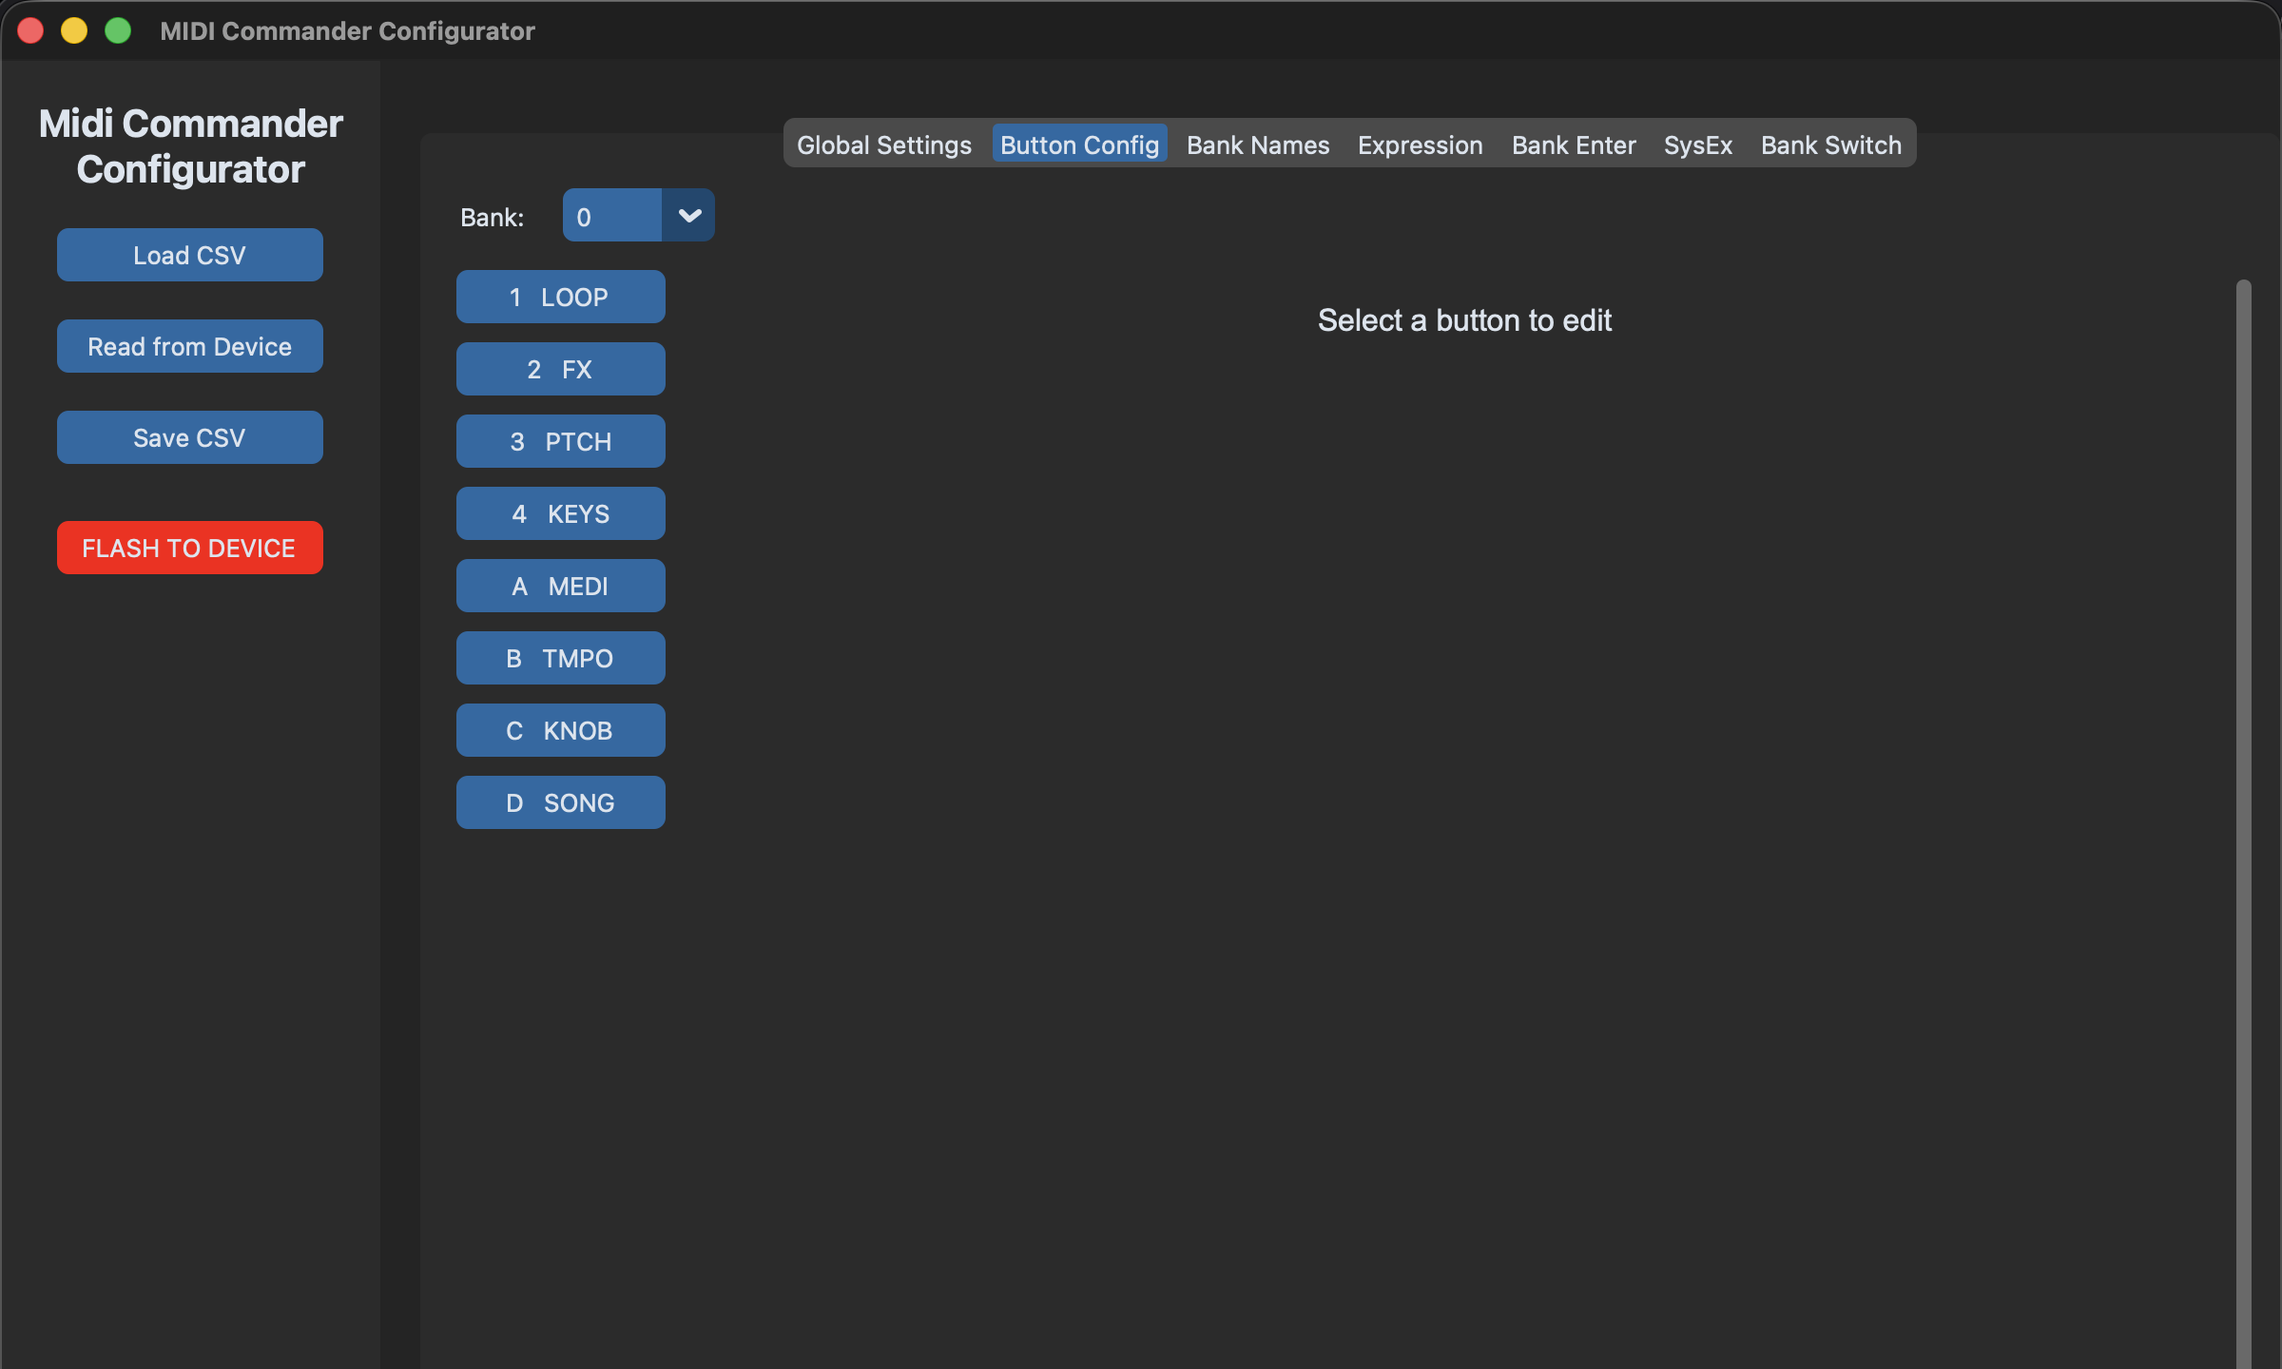
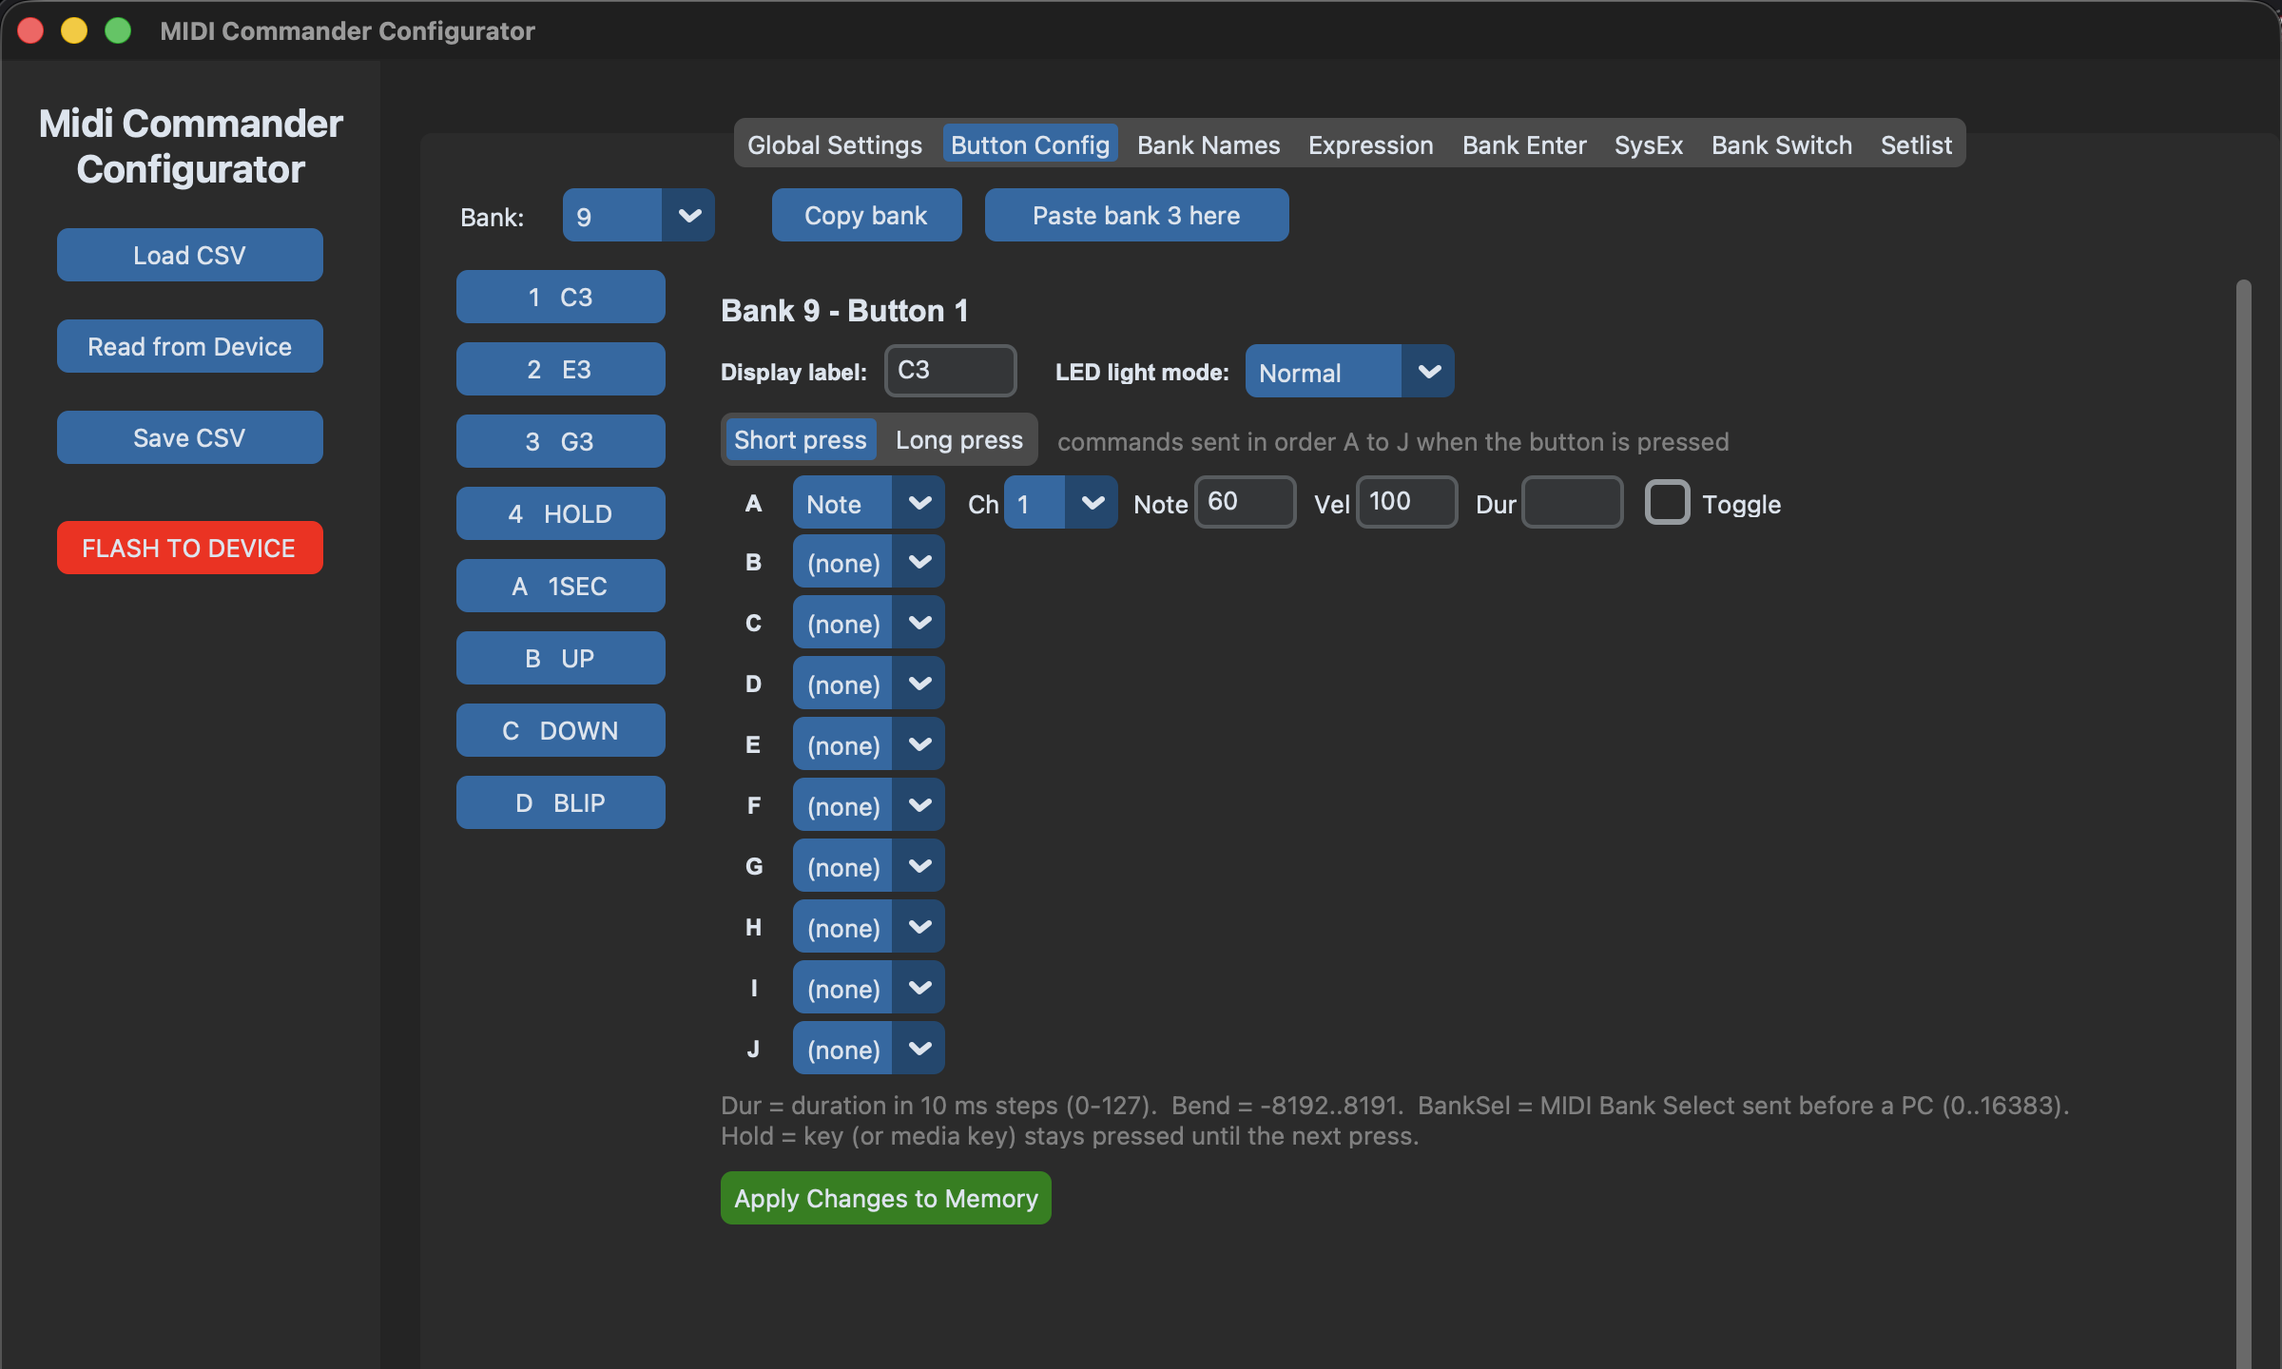
Configurator: copy and paste a whole bank
Setting up 32 banks where many differ in a detail meant rebuilding each one
button by button. Copy bank and Paste bank in the Button Config tab
duplicate everything that belongs to a bank onto another: labels, LED
modes, short and long press commands, and the commands sent on entering it.

Pasting makes the target identical to the source, so rows the target had
and the source did not, such as a long press, are removed; keeping them
would leave a bank that is neither. The name is kept, because a copy is
usually where a variant starts. It asks before overwriting, commits what is
still open in the editors first, and drops the editors afterwards, since
they point at rows that were just replaced and would write the old values
back.

The logic is in lib/bankClipboard.py, apart from the GUI, so it is tested
by packing the result: the target bank's command, LED mode, label, long
press and bank enter bytes must equal the source's, no byte outside the
target bank may change, the name must survive, the copy must be a snapshot,
and pasting a bank onto itself must change nothing.

The Button Config screenshot is refreshed to show the new buttons.

No firmware change.

Claude-Session: https://claude.ai/code/session_01BE6LWiQNV8qQwRKwM5qFpY

diff --git a/python/tests/test_roundtrip.py b/python/tests/test_roundtrip.py
@@ -866,3 +866,87 @@ class PanicTest(unittest.TestCase):
         row = long_frame[(long_frame["Bank_Number"].astype(str) == "6")
                          & (long_frame["Button_Identifier"].astype(str) == "4")].iloc[0]
         self.assertEqual(row["A_CommandType"], "Panic")
+
+
+class BankClipboardTest(unittest.TestCase):
+    """Copy one bank over another, as the configurator's Copy/Paste bank does."""
+
+    SRC, DST = 3, 9
+
+    @staticmethod
+    def region(packed, start, stride, bank):
+        return packed[start + bank * stride:start + (bank + 1) * stride]
+
+    def setUp(self):
+        from lib import bankClipboard
+        self.clip = bankClipboard
+        self.sections = read_config_csv(DEMO_CSV)
+        self.before = packer.pack_config(self.sections)
+
+    def paste(self, src, dst):
+        s = self.sections
+        clip = self.clip.copy_bank(s["Button_Settings"], s.get(packer.LONG_PRESS_SECTION),
+                                   s.get(packer.BANK_ENTER_SECTION), src)
+        b, l, e = self.clip.paste_bank(s["Button_Settings"], s.get(packer.LONG_PRESS_SECTION),
+                                       s.get(packer.BANK_ENTER_SECTION), clip, dst)
+        new = dict(s)
+        new["Button_Settings"], new[packer.LONG_PRESS_SECTION], new[packer.BANK_ENTER_SECTION] = b, l, e
+        return new, packer.pack_config(new)
+
+    def test_target_becomes_identical(self):
+        _, after = self.paste(self.SRC, self.DST)
+        U = unpacker
+        for name, start, stride in (
+            ("commands", U.COMMANDS_OFFSET, 8 * U.BUTTON_STRIDE),
+            ("led modes", U.LED_MODES_OFFSET, 8),
+            ("labels", U.LABELS_OFFSET, 32),
+            ("long press", U.LONG_PRESS_OFFSET, 8 * U.BUTTON_STRIDE),
+            ("bank enter", U.BANK_ENTER_OFFSET, U.BUTTON_STRIDE),
+        ):
+            self.assertEqual(self.region(after, start, stride, self.DST),
+                             self.region(self.before, start, stride, self.SRC), name)
+
+    def test_nothing_else_changes(self):
+        _, after = self.paste(self.SRC, self.DST)
+        U = unpacker
+        diffs = [i for i in range(len(after)) if after[i] != self.before[i]]
+        allowed = []
+        for start, stride in ((U.COMMANDS_OFFSET, 8 * U.BUTTON_STRIDE), (U.LED_MODES_OFFSET, 8),
+                              (U.LABELS_OFFSET, 32), (U.LONG_PRESS_OFFSET, 8 * U.BUTTON_STRIDE),
+                              (U.BANK_ENTER_OFFSET, U.BUTTON_STRIDE)):
+            allowed.append(range(start + self.DST * stride, start + (self.DST + 1) * stride))
+        stray = [i for i in diffs if not any(i in r for r in allowed)]
+        self.assertEqual(stray, [], "bytes outside the target bank changed")
+        self.assertTrue(diffs, "the paste changed nothing")
+
+    def test_bank_name_is_kept(self):
+        _, after = self.paste(self.SRC, self.DST)
+        name = self.region(after, unpacker.GLOBAL_SIZE, 12, self.DST)
+        self.assertEqual(name, self.region(self.before, unpacker.GLOBAL_SIZE, 12, self.DST))
+
+    def test_rows_keep_their_count(self):
+        new, _ = self.paste(self.SRC, self.DST)
+        self.assertEqual(len(new["Button_Settings"]), len(self.sections["Button_Settings"]))
+
+    def test_target_extras_are_removed(self):
+        """Bank 1 has a long press on button 4; bank 6 only one on button 4 too; bank 2 none."""
+        s = self.sections
+        long_frame = s[packer.LONG_PRESS_SECTION]
+        def long_types(frame, bank):
+            rows = frame[frame["Bank_Number"].astype(str).str.replace(".0", "", regex=False) == str(bank)]
+            return sorted(str(r["A_CommandType"]) for _, r in rows.iterrows()
+                          if str(r["A_CommandType"]) not in ("", "nan"))
+        self.assertTrue(long_types(long_frame, 1))
+        new, _ = self.paste(2, 1)
+        self.assertEqual(long_types(new[packer.LONG_PRESS_SECTION], 1), long_types(long_frame, 2))
+
+    def test_copy_is_a_snapshot(self):
+        s = self.sections
+        clip = self.clip.copy_bank(s["Button_Settings"], None, None, self.SRC)
+        before = [dict(r) for r in clip["buttons"]]
+        s["Button_Settings"].loc[:, "Label"] = "XXXX"
+        self.assertEqual(clip["buttons"], before)
+
+    def test_paste_onto_itself_is_a_no_op(self):
+        _, after = self.paste(self.SRC, self.SRC)
+        self.assertEqual(after, self.before)

diff --git a/python/gui_configurator.py b/python/gui_configurator.py
@@ -41,6 +41,7 @@ from lib.configPacker import (  # noqa: E402
     empty_long_press_settings,
 )
 from lib.midiDevice import DeviceNotFound, DeviceTimeout, MidiCommander  # noqa: E402
+from lib import bankClipboard as bank_clipboard  # noqa: E402
 
 ctk.set_appearance_mode("Dark")
 ctk.set_default_color_theme("blue")
@@ -406,6 +407,7 @@ class MidiCommanderGUI(ctk.CTk):
         self.exp_widgets = {}       # pedal index -> dict of widgets
         self.press_mode = "Short press"
         self.editing_button = None  # (row_index, btn_id) of the button being edited
+        self.bank_clipboard = None  # a copied bank, see lib/bankClipboard.py
 
         self.global_widgets = {}  # df index -> widget with .value()
         self.bank_widgets = {}  # df index -> (large, small)
@@ -485,6 +487,11 @@ class MidiCommanderGUI(ctk.CTk):
         ctk.CTkLabel(top, text="Bank:").pack(side="left", padx=10)
         self.bank_selector = ctk.CTkOptionMenu(top, command=self.on_bank_change, width=80)
         self.bank_selector.pack(side="left", padx=10)
+        ctk.CTkButton(top, text="Copy bank", width=100, command=self.copy_bank).pack(side="left", padx=(20, 6))
+        self.paste_bank_button = ctk.CTkButton(
+            top, text="Paste bank", width=160, command=self.paste_bank, state="disabled"
+        )
+        self.paste_bank_button.pack(side="left", padx=6)
 
         self.button_matrix = ctk.CTkFrame(tab, width=130)
         self.button_matrix.grid(row=1, column=0, sticky="ns", padx=(5, 0), pady=5)
@@ -794,6 +801,49 @@ class MidiCommanderGUI(ctk.CTk):
                 width=110,
                 command=lambda rid=idx, bid=btn_id: self.load_button_commands(rid, bid),
             ).pack(pady=5, padx=8)
+
+    # --- Copy and paste a whole bank -------------------------------------------------
+    def copy_bank(self):
+        if self.df_buttons is None:
+            return
+        # Take whatever is still in the editors along with it
+        self.apply_button_changes(silent=True)
+        self.apply_bank_enter_changes()
+        bank = self.bank_selector.get()
+        self.bank_clipboard = bank_clipboard.copy_bank(self.df_buttons, self.df_long, self.df_enter, bank)
+        self.paste_bank_button.configure(state="normal", text=f"Paste bank {clean(bank)} here")
+
+    def paste_bank(self):
+        if not self.bank_clipboard or self.df_buttons is None:
+            return
+        target = clean(self.bank_selector.get())
+        source = self.bank_clipboard["bank"]
+        if target == source:
+            return
+        if not messagebox.askyesno(
+            "Paste bank",
+            f"Replace everything in bank {target} with bank {source}?\n\n"
+            "Labels, LED modes, short and long press commands and the commands sent on "
+            "entering the bank are all replaced. The bank name is kept.",
+        ):
+            return
+        self.apply_button_changes(silent=True)
+        self.apply_bank_enter_changes()
+        self.df_buttons, self.df_long, self.df_enter = bank_clipboard.paste_bank(
+            self.df_buttons, self.df_long, self.df_enter, self.bank_clipboard, target
+        )
+        # The open editors point at rows that were just replaced: drop them
+        # before refreshing, or they would write the old values back.
+        self.editing_row = None
+        self.editing_button = None
+        self.slot_editors = []
+        for w in self.cmd_editor.winfo_children():
+            w.destroy()
+        ctk.CTkLabel(self.cmd_editor, text="Select a button to edit", font=("Arial", 16)).pack(pady=10)
+        self.enter_editors = []
+        self.on_bank_change(target)
+        if self.enter_bank_selector.get():
+            self._on_enter_bank_change(self.enter_bank_selector.get())
 
     def _long_row_index(self, row_index):
         """Index in df_long of the button at df_buttons row_index (created if missing)."""

diff --git a/python/lib/bankClipboard.py b/python/lib/bankClipboard.py
@@ -1,0 +1,87 @@
+"""Copy everything that belongs to one bank and paste it over another.
+
+A bank's content lives in three frames: Button_Settings (labels, LED modes and
+the short press commands), LongPress_Settings and BankEnter_Settings. The bank
+name, in Bank_Naming, is deliberately left out: copying a bank is how you start
+a variant of it, and the variant wants its own name.
+
+Pasting makes the target bank identical to the copied one. Rows the target had
+and the source did not, a long press on some button for instance, are removed
+rather than kept, so what you see after pasting is exactly the source.
+"""
+
+import pandas as pd
+
+BANK = "Bank_Number"
+BUTTON = "Button_Identifier"
+
+
+def _bank(value) -> str:
+    s = str(value).strip()
+    try:
+        return str(int(float(s)))
+    except ValueError:
+        return s
+
+
+def _button(value) -> str:
+    return str(value).strip().upper()
+
+
+def _snapshot(df, bank, keyed_by_button):
+    if df is None:
+        return []
+    rows = []
+    for _, row in df.iterrows():
+        if _bank(row.get(BANK)) != bank:
+            continue
+        rows.append(row.to_dict())
+    if keyed_by_button:
+        rows.sort(key=lambda r: _button(r.get(BUTTON)))
+    return rows
+
+
+def copy_bank(df_buttons, df_long, df_enter, bank):
+    """Snapshot of one bank, independent of later edits to the frames."""
+    b = _bank(bank)
+    return {
+        "bank": b,
+        "buttons": _snapshot(df_buttons, b, True),
+        "long": _snapshot(df_long, b, True),
+        "enter": _snapshot(df_enter, b, False),
+    }
+
+
+def _replace(df, rows, bank):
+    """df with every row of `bank` replaced by `rows`, kept where the old ones were."""
+    if df is None:
+        return None
+    new_rows = []
+    for r in rows:
+        r = dict(r)
+        r[BANK] = bank
+        new_rows.append(r)
+
+    out, inserted = [], False
+    for _, row in df.iterrows():
+        if _bank(row.get(BANK)) == bank:
+            if not inserted:
+                out.extend(new_rows)
+                inserted = True
+            continue
+        out.append(row.to_dict())
+    if not inserted:
+        out.extend(new_rows)
+    return pd.DataFrame(out, columns=df.columns).astype(object).reset_index(drop=True)
+
+
+def paste_bank(df_buttons, df_long, df_enter, clip, bank):
+    """Return (df_buttons, df_long, df_enter) with `bank` replaced by the clip."""
+    b = _bank(bank)
+    if clip is None or clip.get("bank") == b:
+        return df_buttons, df_long, df_enter
+    return (
+        _replace(df_buttons, clip["buttons"], b),
+        _replace(df_long, clip["long"], b),
+        _replace(df_enter, clip["enter"], b),
+    )

diff --git a/README.md b/README.md
@@ -117,7 +117,7 @@ Connect the pedal in normal mode (not DFU), click **Read from Device** to load w
 
 **Global Settings** — MIDI channel, config name, expression pedal CC numbers, bank LED modes, realtime passthrough, USB MIDI thru, remember state and the long press time. Bounded settings are drop-downs or check boxes; numbers are limited to their valid range. See the [reference](#global_settings).
 
-**Button Config** — pick a bank, then a button. At the top you set its **display label** and **LED light mode**; below, ten command slots A–J. Choose a slot's command type and only the fields that type uses appear. **Short press / Long press** switches the slots between the two command sets of the button. Edits are kept in memory automatically when you switch button, bank or tab.
+**Button Config** — pick a bank, then a button. At the top you set its **display label** and **LED light mode**; below, ten command slots A–J. Choose a slot's command type and only the fields that type uses appear. **Short press / Long press** switches the slots between the two command sets of the button. Edits are kept in memory automatically when you switch button, bank or tab. **Copy bank** and **Paste bank** duplicate a whole bank onto another: labels, LED modes, short and long press commands and the commands sent on entering the bank. The target becomes identical to the source, so anything it had that the source does not is removed, and its name is kept, since a copy is usually the start of a variant. Pasting asks for confirmation first.
 
 <img src="docs/images/gui_button_config.png" width="500">
 
@@ -349,6 +349,7 @@ Hardware notes (MCU, pinout, I²C addresses) are in `HardwareNotes.txt`; `backup
 
 Firmware versions are shown on the display at boot and reported by the tools.
 
+- **Configurator: copy and paste banks.** Copy bank and Paste bank in the Button Config tab duplicate everything that belongs to a bank onto another one, except its name, after a confirmation. The logic lives in `python/lib/bankClipboard.py` and is covered by tests that pack the result and check the target bank's bytes match the source and nothing outside it moved. No firmware change.
 - **0.22 — See relative CC values.** A `CCInc` button used to change a value nobody could see. The CC number and the value just sent now replace the bank's info line for a second and a half, as `CC7=69`, or `C120=127` for three digit CC numbers so it still fits. Firmware only: the configuration is unchanged.
 - **0.21 — Panic.** New `Panic` command type: All Sound Off and All Notes Off on all sixteen channels, to USB and DIN, packed into two USB packets and two serial buffers so a single press cannot exhaust the transmit buffers. A command type only, so the configuration layout is unchanged and 0.20 configurations need no re-flash.
 - **0.20 — Follow the host's clock.** `Clock_Follow` makes the pedal measure the MIDI clock arriving over USB over two beats and adopt its tempo, shown on the display as `EXT` and a tempo for 1.5 seconds when it is picked up or changes. While the host's clock runs the pedal never adds a second clock to the stream: it stays silent when realtime passthrough already forwards the host's clock to DIN, and re-clocks DIN at the host's tempo when it does not. When the host's clock stops, the pedal's own clock, if running, carries on at the tempo it adopted, so a looper behind it keeps time. A single byte in the global settings area, so nothing moves and configurations from 0.19 need no re-flash.
